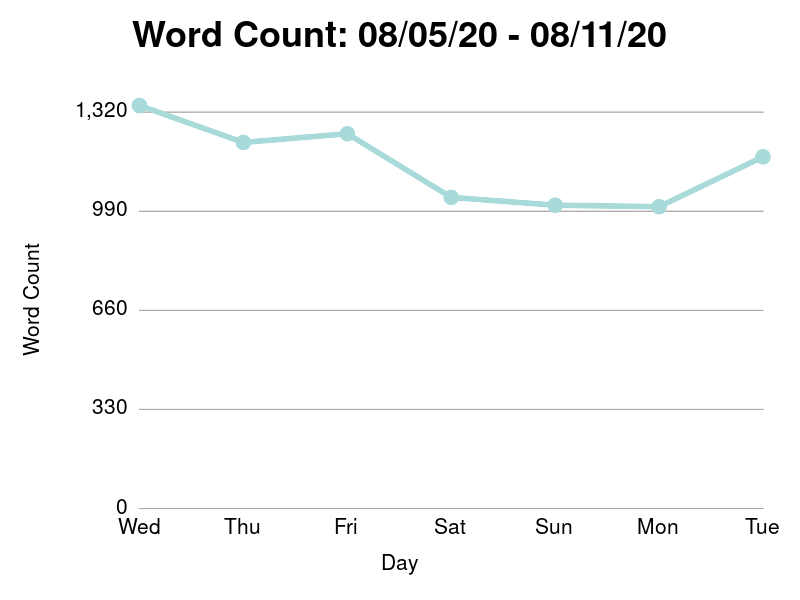
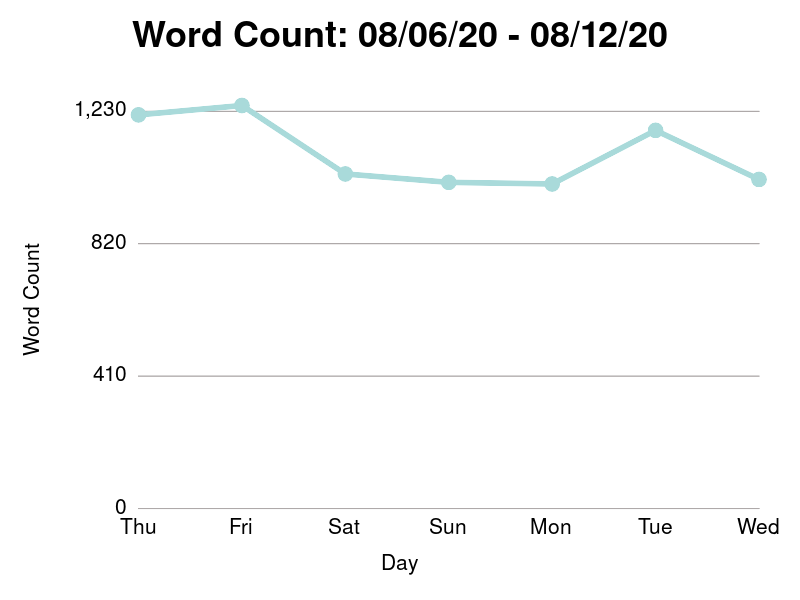
New SHIT

diff --git a/new/entries/2020-08-12.md b/new/entries/2020-08-12.md
@@ -1,0 +1,135 @@
+---
+title: the worst hose, too much garlic, and the roller coaster
+---
+
+Dear Journal,
+
+Good morning, everyone!  Happy Wednesday.  This morning felt a little
+unnatural and chaotic, beginning with me accidentally falling asleep
+for an extra hour.  After sleepily jabbing at my phone for a few
+minutes, Marissa politely solicited some tech support.
+
+"I got a weird email from _mailer daemon_," she said, tossing her
+phone onto the bed.  "It says the original email was sent by an
+address I don't recognize?"
+
+After resetting Marissa's password, I returned a moment later with a
+cup of coffee.
+
+"Sorry to wake you up with IT needs," she said.
+
+"It's OK," I laughed, imbibing the first sip of coffee.  "I think
+somebody was trying to spoof your email and it got caught by gmail.
+Nothing to be worried about.  And it wouldn't have taken so long to
+figure out your password if I'd have gotten my lazy ass out of bed
+when I was supposed to."
+
+_Sip_.  We had a great day yesterday.  In the morning, Marissa headed
+outside to tackle a project that involved replacing our old messed up
+garden hose.  Rodney and I accompanied her, filling the time between
+fetching tools for her with sports and super hero role play in the
+front yard.
+
+"This is just the worst hose ever," said Marissa, slinging the heap
+of disheveled rubber coil onto the ground.  "Did you know this was the
+hose that came with our house?"
+
+It's a remarkably terrible hose.  Two old, small hoses fused together
+with a bulky plastic valve that somehow freely rotates on both ends
+while also being eternally rusted together.  Three pin sized leaks
+spray water in all directions.  The nozzle of the hose is also
+terrible in its own right.  It's impossible to completely shut off.
+Even when the lever is free, there is a steady trickle of water.
+
+"I thought we'd be able to salvage some of this, but it's not coming
+apart anywhere," said Marissa, vice grip in hand.  "Can we just chuck
+it?"
+
+"Don't have to say that twice," I said.  And with great pleasure,
+Rodney and I heaved the entire ass-brained convoluted system into our
+garbage can.
+
+After some time to wind down, we took a family trip to pick up
+groceries.  Coming home from Woodman's and unpacking the groceries, it
+became clear that I made a few clerical errors.
+
+"Oh my gosh," gasped Marissa.  "Why did you get so much garlic?"
+
+"Well, I got twice the amount that I normally order because..."  My
+voice trailed off, seeing the heavy plastic bag filled with garlic
+heads.  "Oh," I laughed.  "That is a lot."
+
+I took out my phone to find the receipt in my email.  "Yep - my bad.
+I got an entire pound, but it was only two dollars."
+
+We also went a little overboard on jalapenos and habanero peppers.  It
+appears I'm still getting the hang of shopping at Woodman's.
+
+{% include figure.html filename='too-much-garlic.jpg' caption='All
+stocked up for when the vampires come.' %}
+
+For dinner, Marissa made us a chicken breast and a Tex-mex salad with
+a side of Mexican corn.  And for dessert, we had brownies and
+ice cream.
+
+"I'll clean up.  Why don't you take Rodney downstairs so you guys can
+start on the roller coaster," said Marissa after we had finished
+eating.
+
+Earlier that day, me and Rodney's k'nex roller coaster arrived in the
+mail.  A single tattered box with nearly 1000 individual pieces.
+
+Rodney joined me on the floor in the corner of Marissa's basement
+studio.  "So we're just going to be organizing the pieces dude," I
+said.  "That will help us build it more quickly, and plus this thing
+is from ebay, so it might be missing pieces."
+
+Rodney surprised me.  I didn't think he would find any fulfillment in
+the tedium of separating hundreds of rods and connectors into color
+coded bags, but he picked up on things quickly.
+
+"Dada, you get the blue ones," he said, handing me a bag.  "I'll get
+all the white circles."  We played music and cracked jokes - we had so
+much fun organizing the build site that I lost track of time, and
+accidentally gave him an extra half hour past his bedtime.
+
+"I was surprised," I said to Marissa after putting him to bed.  "When
+we built the crane he had no interest in putting it together."
+
+"Maybe it wasn't what he was expecting," said Marissa.  "He was
+probably expecting a fully assembled crane to be inside the box.  I
+think he now understands that building it is the fun part."
+
+"And he's very particular," I added.  "We put all the bags back in the
+box, and one by one I watched him take the bags out, roll them up, and
+put them back."
+
+Marissa nodded.  "He does that to my art stuff too.  When he hangs out
+down here, he likes to organize the felt in our craft supplies."
+
+"And did you know that just now I caught him rinsing off his
+toothpaste?" I said.  "He was rinsing the cap under water,
+meticulously scraping the caked pieces off the outside.  And then he
+said _nice and clean_."
+
+"He's _your_ son.  I think he likes it when things are tidy."
+
+After Rodney was in bed, I finished organizing the pieces, then took
+some time to skim through the included manual.  Back when I first put
+this kit together when I was little, I would have never taken the time
+to actually read any of it, but last night I was struck with how
+detailed and thoughtful it was.
+
+"Look at this," I said to Marissa.  "There is a troubleshooting guide
+if your roller coaster doesn't work."  I read aloud from the manual.
+
+"If you have any trouble or further questions, call us at
+1-800-KNEX-KIDS to talk to one of our _construction specialists_."
+
+"Awww, that's sweet," said Marissa.
+
+"Helping a random kid troubleshoot their giant k'nex roller coaster
+over the phone," I said.  "Can you imagine what that job was like?"
+
+Thanks for stopping by today.  If you'll excuse me, I was due at the
+job site a half hour ago.  We have a roller coaster to build.
